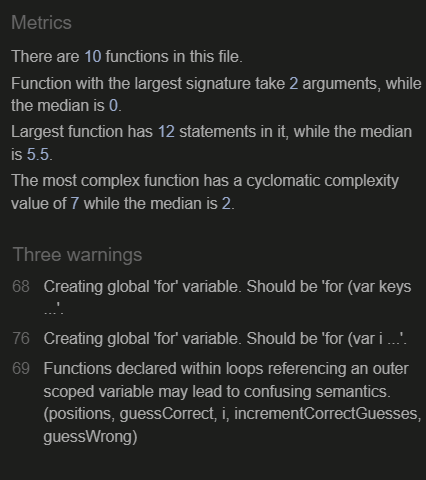
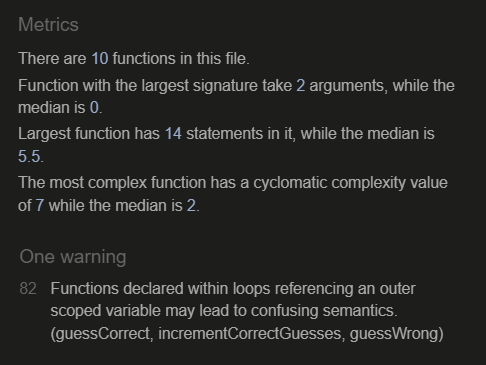
replaced jshint evaluation images with most recent versions/fixed several broken links in readme contents

diff --git a/README.md b/README.md
@@ -18,13 +18,22 @@
     - [Site Owner](#site-owner)
   - [Design](#design)
     - [Colour Scheme](#colour-scheme)
-    - [Fonts](#fonts)
+    - [Font](#font)
     - [Structure](#structure)
     - [Wireframes](#wireframes)
   - [Technologies Used](#technologies-used)
     - [Languages](#languages)
-    - [Frameworks, Libraries & Tools](#frameworks-libraries--tools)
+    - [Libraries & Tools](#libraries--tools)
   - [Features](#features)
+    - [Header](#header)
+    - [Footer](#footer)
+    - [Home (Welcome screen)](#home-welcome-screen)
+    - [Rock Paper Scissors (game)](#rock-paper-scissors-game)
+    - [Quizzit (game)](#quizzit-game)
+    - [Guillotine (game)](#guillotine-game)
+    - [Contact](#contact)
+    - [Form Confirmation](#form-confirmation)
+    - [404 Page](#404-page)
   - [Validation](#validation)
     - [HTML Validation](#html-validation)
     - [CSS Validation](#css-validation)
@@ -43,6 +52,10 @@
 ## Project Goals
 
 The goal of this project was to create a website where the user can play a few simple games to pass time.
+
+### User Goals
+
+- Play one or more simple games to pass time.
 
 ### Site Owner Goals
 
@@ -141,7 +154,7 @@ The websites main structure has been kept simple and clear without any unnecesar
 - CSS
 - JavaScript
 
-### Tools & Libraries
+### Libraries & Tools
 
 - [Blender](https://www.blender.org/) Was used to create logo's and game images.
 - [Gimp](https://www.gimp.org/) Was used to crop/resize/convert images.
@@ -282,7 +295,7 @@ and wether they where right or wrong. Green borders for correct guesses and red 
 <img src="docs/features/contact/ft_contact_thanks.webp">
 </details>
 
-### 404 
+### 404 Page
 - Custom 404 page loads when the user tries to navigate to a non-existing url. 
 - The user is presented with a short apology and a link back to the homepage.
 - user story covered: 10
@@ -325,7 +338,7 @@ The W3C Jigsaw CSS Validation Service was used to validate the CSS of the websit
 <img src="docs/validation/css/css_valid_cssonly.webp">
 </details>
 
-### Javascript
+### JavaScript Validation
 
 JSHint JavaScript Validation Service was used to validate the Javascript files. No issues of importance where found.
 
@@ -342,7 +355,7 @@ JSHint JavaScript Validation Service was used to validate the Javascript files. 
 <img src="docs/validation/js/contact_js_valid.webp">
 </details>
 
-### Accessability
+### Accessibility
 WAVE accessibility evaluation tool was used to ensure the website met high accessibility standards. All pages passed with 0 errors or alerts.
 
 <details><summary>index.html</summary>
@@ -398,7 +411,7 @@ The website was tested on the following devices:
 
 Testing with Google Chrome Develepor Tools Device Toggling reveals that the site remains functional and esthetically consistent across all devices.
 
-### Browser compatability
+### Browser compatibility
 The website was tested on the following browsers:
 - Google Chrome
 - Mozilla Firefox
